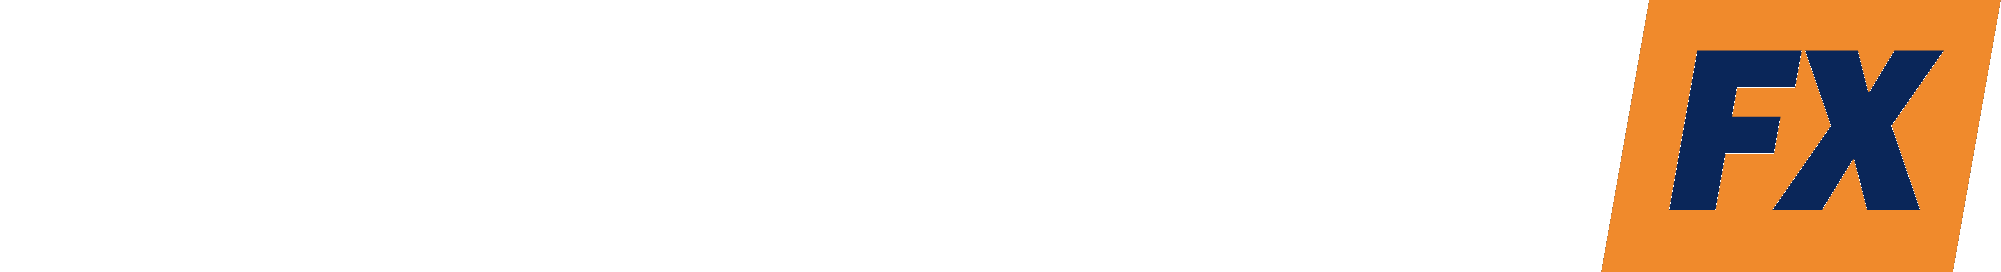
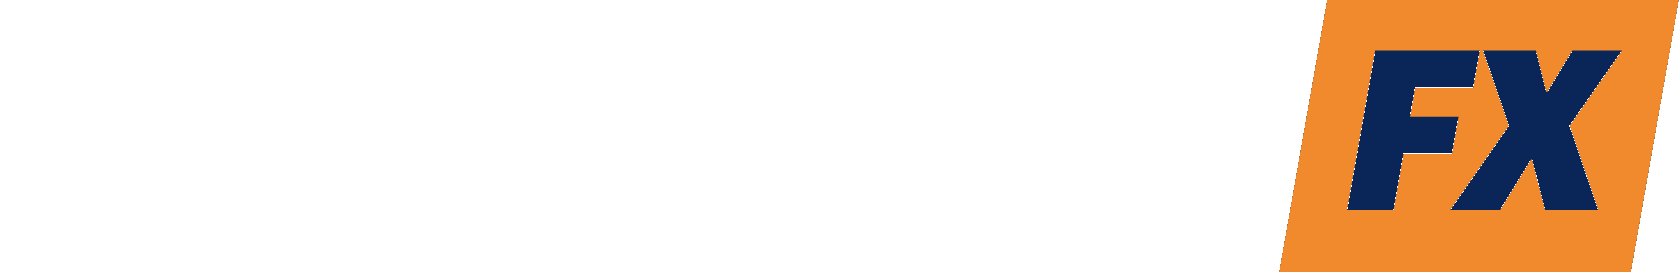
feat: use the mark as the M in the MAZAL FX wordmark and a trading hero photo
The wordmark now reads mark + AZAL + FX, since the mark is the M.
Hero photo swapped for traders in front of a live price chart, with the
event watermark bar cropped off.

Claude-Session: https://claude.ai/code/session_01799v2dr7KhCETHN5vdqCM7

Changed region(s): [[0.7433, 0.0, 1.0, 1.0]]

diff --git a/fx/components/Hero.tsx b/fx/components/Hero.tsx
@@ -21,10 +21,10 @@ export default function Hero() {
         <figure className={styles.visual}>
           <div className={styles.photoFrame}>
             <Image
-              src="/images/workshop-2.jpg"
-              alt="Traders at a MAZAL live workshop"
-              width={1000}
-              height={586}
+              src="/images/hero-trading.jpg"
+              alt="Traders working on laptops in front of a live price chart at a MAZAL session"
+              width={700}
+              height={568}
               priority
               sizes="(max-width: 960px) 100vw, 40vw"
               className={styles.photo}

diff --git a/fx/components/Logo.tsx b/fx/components/Logo.tsx
@@ -2,7 +2,8 @@ import Image from 'next/image';
 import styles from './Logo.module.css';
 
 const HEIGHTS = { sm: 22, md: 30, lg: 46 } as const;
-const RATIO = 2001 / 272;
+/** Wordmark is the mark (which reads as the M) followed by AZAL and the FX block. */
+const RATIO = 1679 / 272;
 
 /** Official MAZAL FX wordmark (white MAZAL, orange FX block) on a transparent background. */
 export default function Logo({ size = 'md', priority = false }: { size?: keyof typeof HEIGHTS; priority?: boolean }) {
